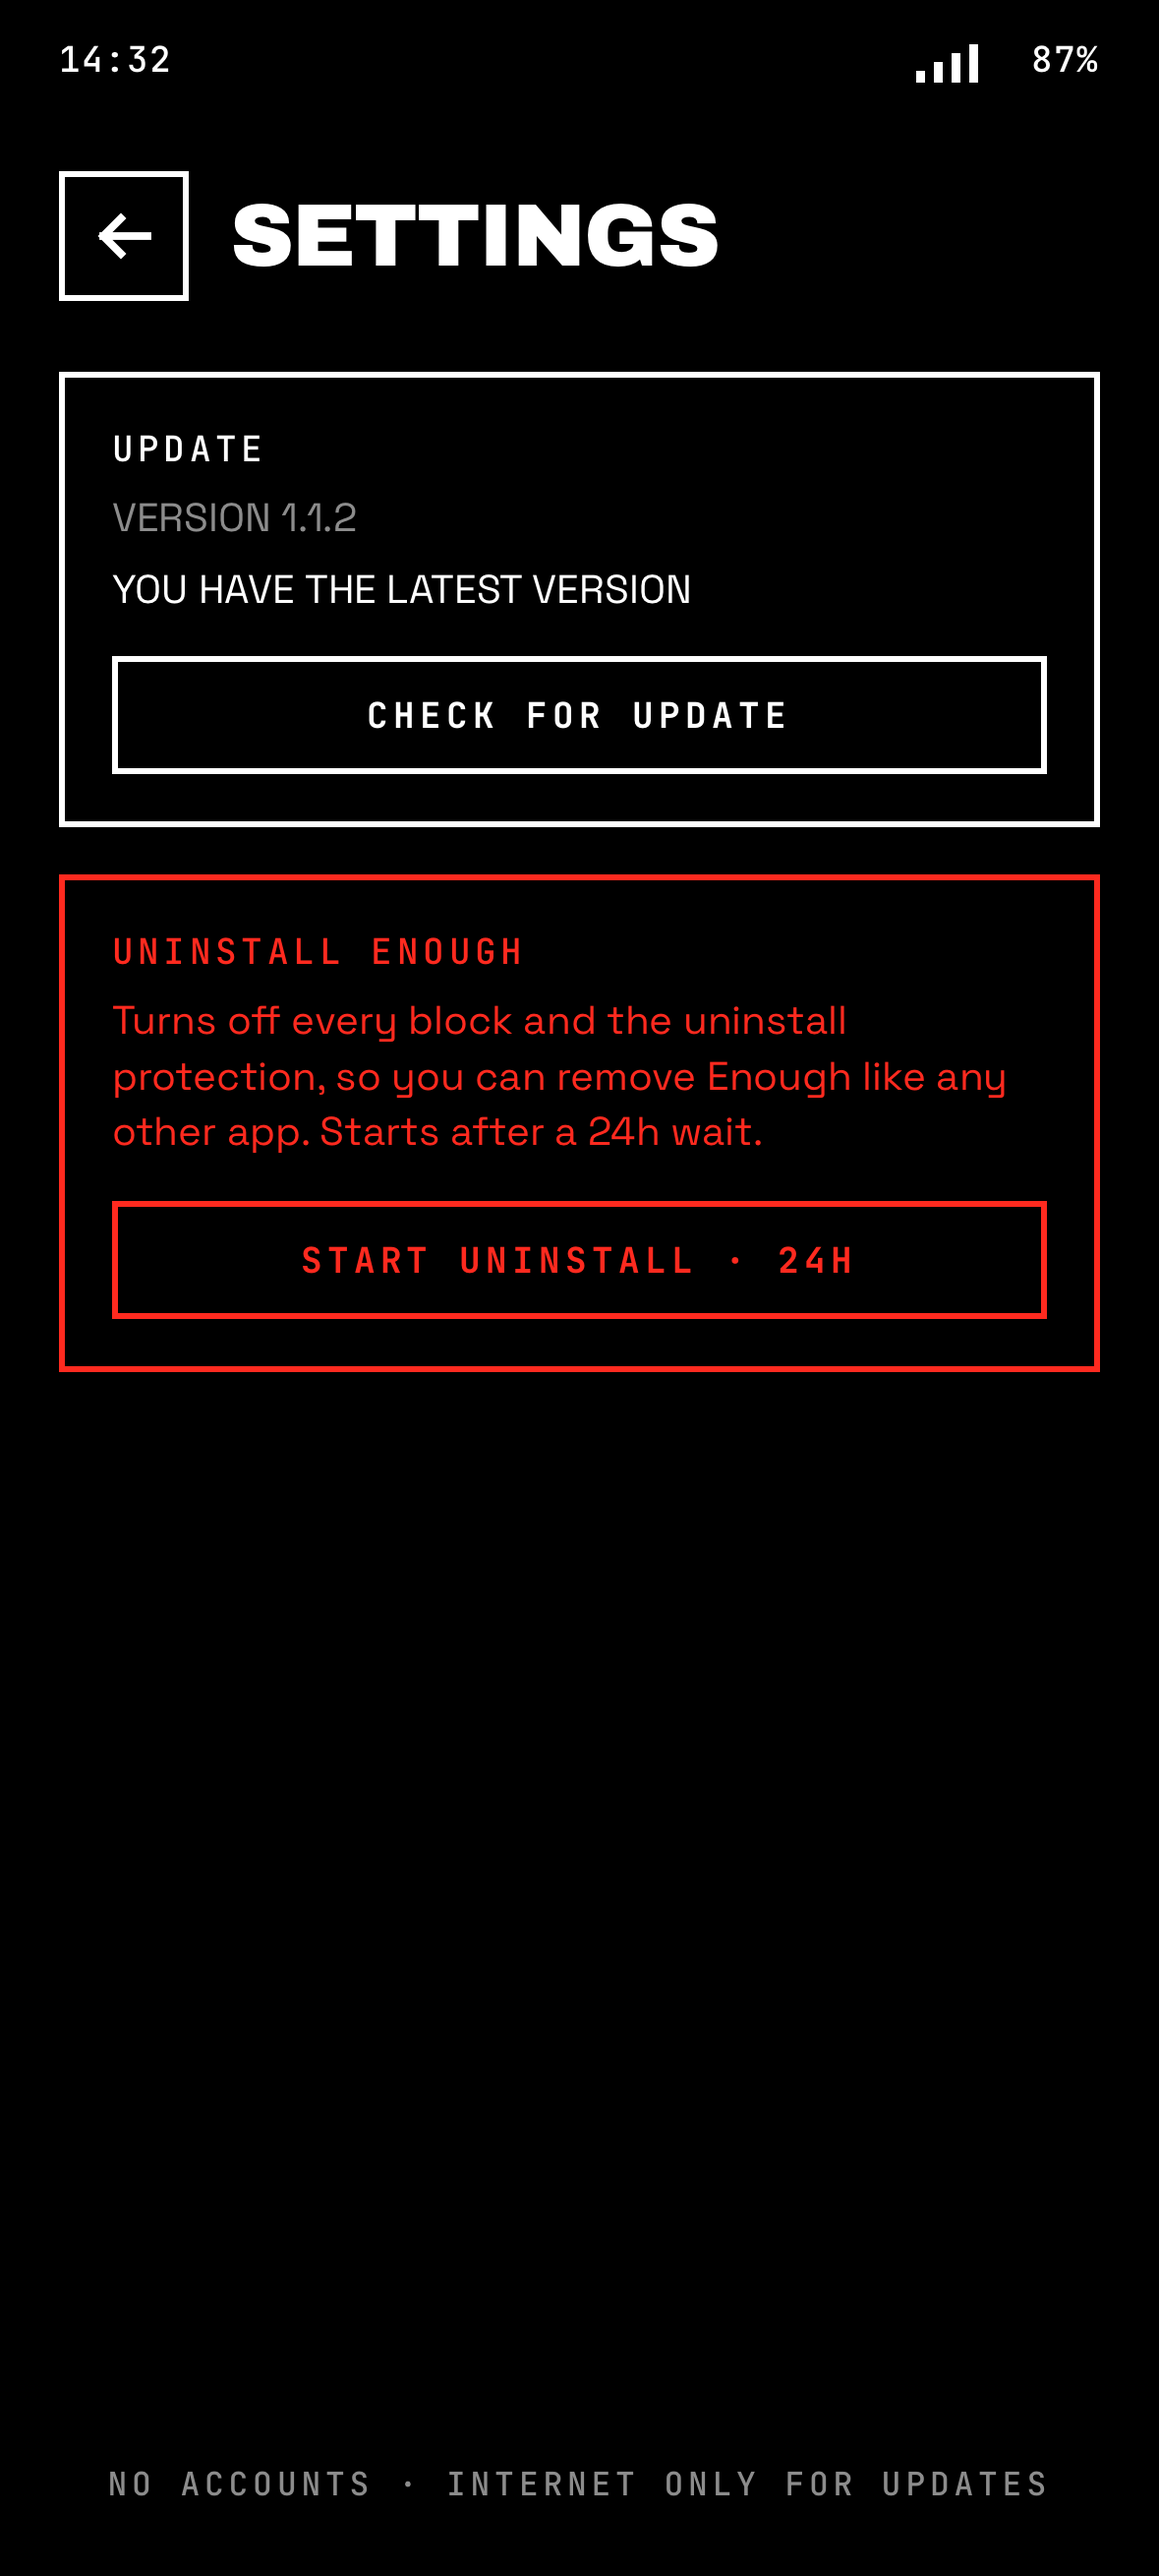
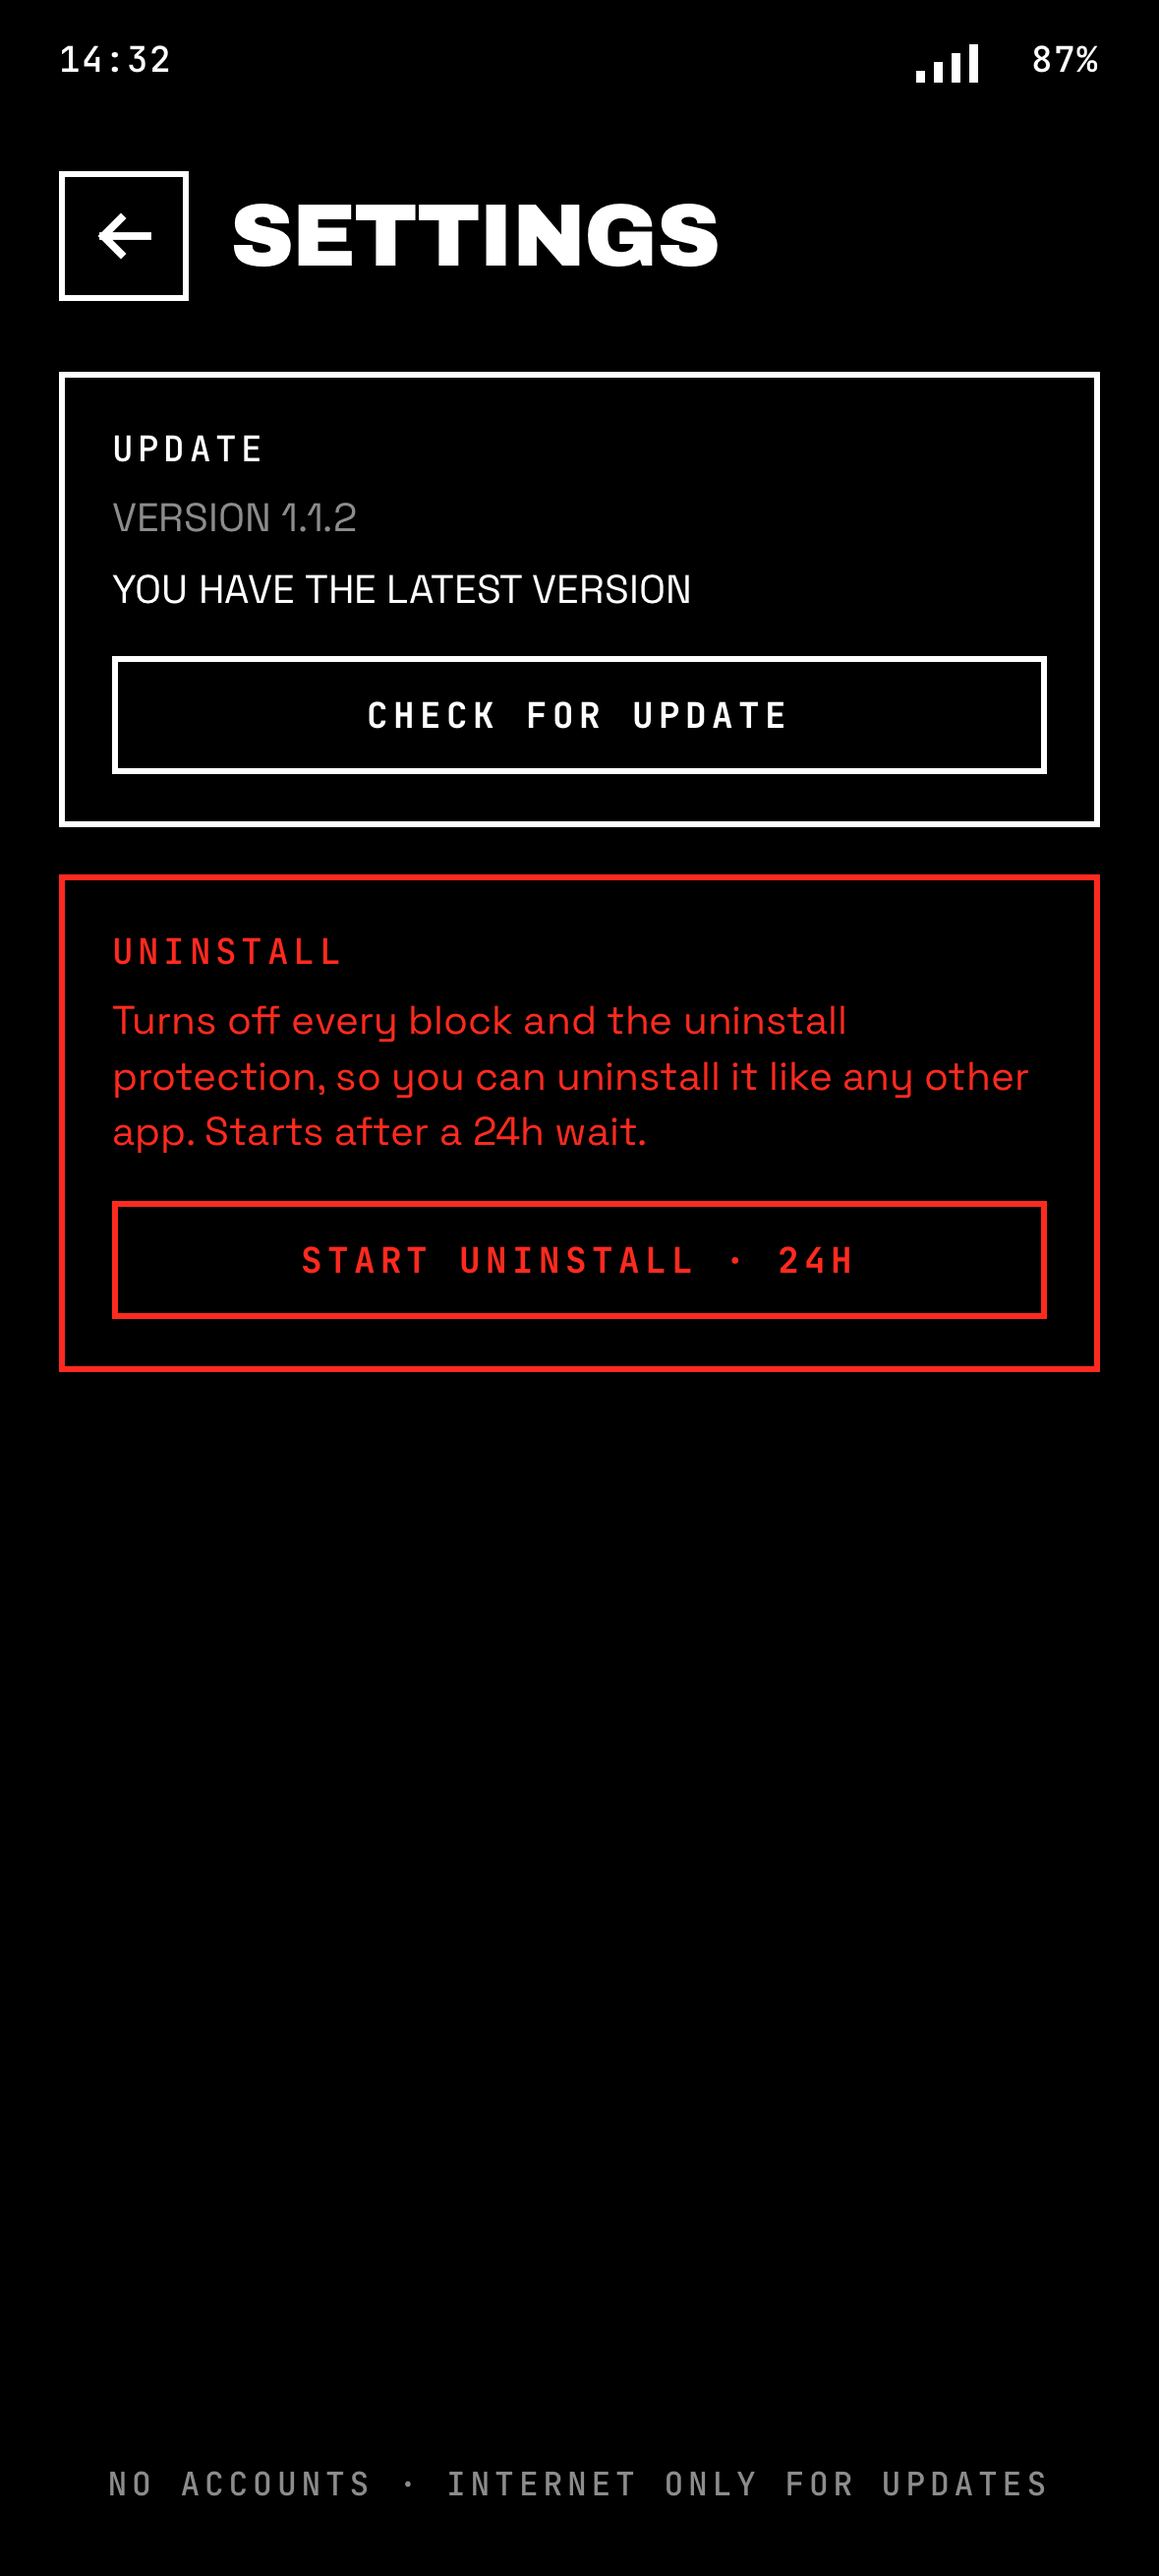
docs(design): update settings mockups for shorter uninstall copy

Changed region(s): [[0.0916, 0.4021, 0.8855, 0.4639]]

diff --git a/design/mockups/src/08-settings.html b/design/mockups/src/08-settings.html
@@ -15,8 +15,8 @@
   </div>
 
   <div class="box red" style="margin-top:16px">
-    <div class="label red" style="font-size:12px">Uninstall Enough</div>
-    <div style="font:400 13.5px/1.4 'Space Grotesk',sans-serif;margin-top:6px">Turns off every block and the uninstall protection, so you can remove Enough like any other app. Starts after a 24h wait.</div>
+    <div class="label red" style="font-size:12px">Uninstall</div>
+    <div style="font:400 13.5px/1.4 'Space Grotesk',sans-serif;margin-top:6px">Turns off every block and the uninstall protection, so you can uninstall it like any other app. Starts after a 24h wait.</div>
     <div class="btn sm danger" style="margin-top:14px">Start uninstall · 24h</div>
   </div>
 

diff --git a/design/mockups/src/08b-settings-downloading.html b/design/mockups/src/08b-settings-downloading.html
@@ -17,8 +17,8 @@
   </div>
 
   <div class="box red" style="margin-top:16px">
-    <div class="label red" style="font-size:12px">Uninstall Enough</div>
-    <div style="font:400 13.5px/1.4 'Space Grotesk',sans-serif;margin-top:6px">Turns off every block and the uninstall protection, so you can remove Enough like any other app. Starts after a 24h wait.</div>
+    <div class="label red" style="font-size:12px">Uninstall</div>
+    <div style="font:400 13.5px/1.4 'Space Grotesk',sans-serif;margin-top:6px">Turns off every block and the uninstall protection, so you can uninstall it like any other app. Starts after a 24h wait.</div>
     <div class="btn sm danger" style="margin-top:14px">Start uninstall · 24h</div>
   </div>
 
